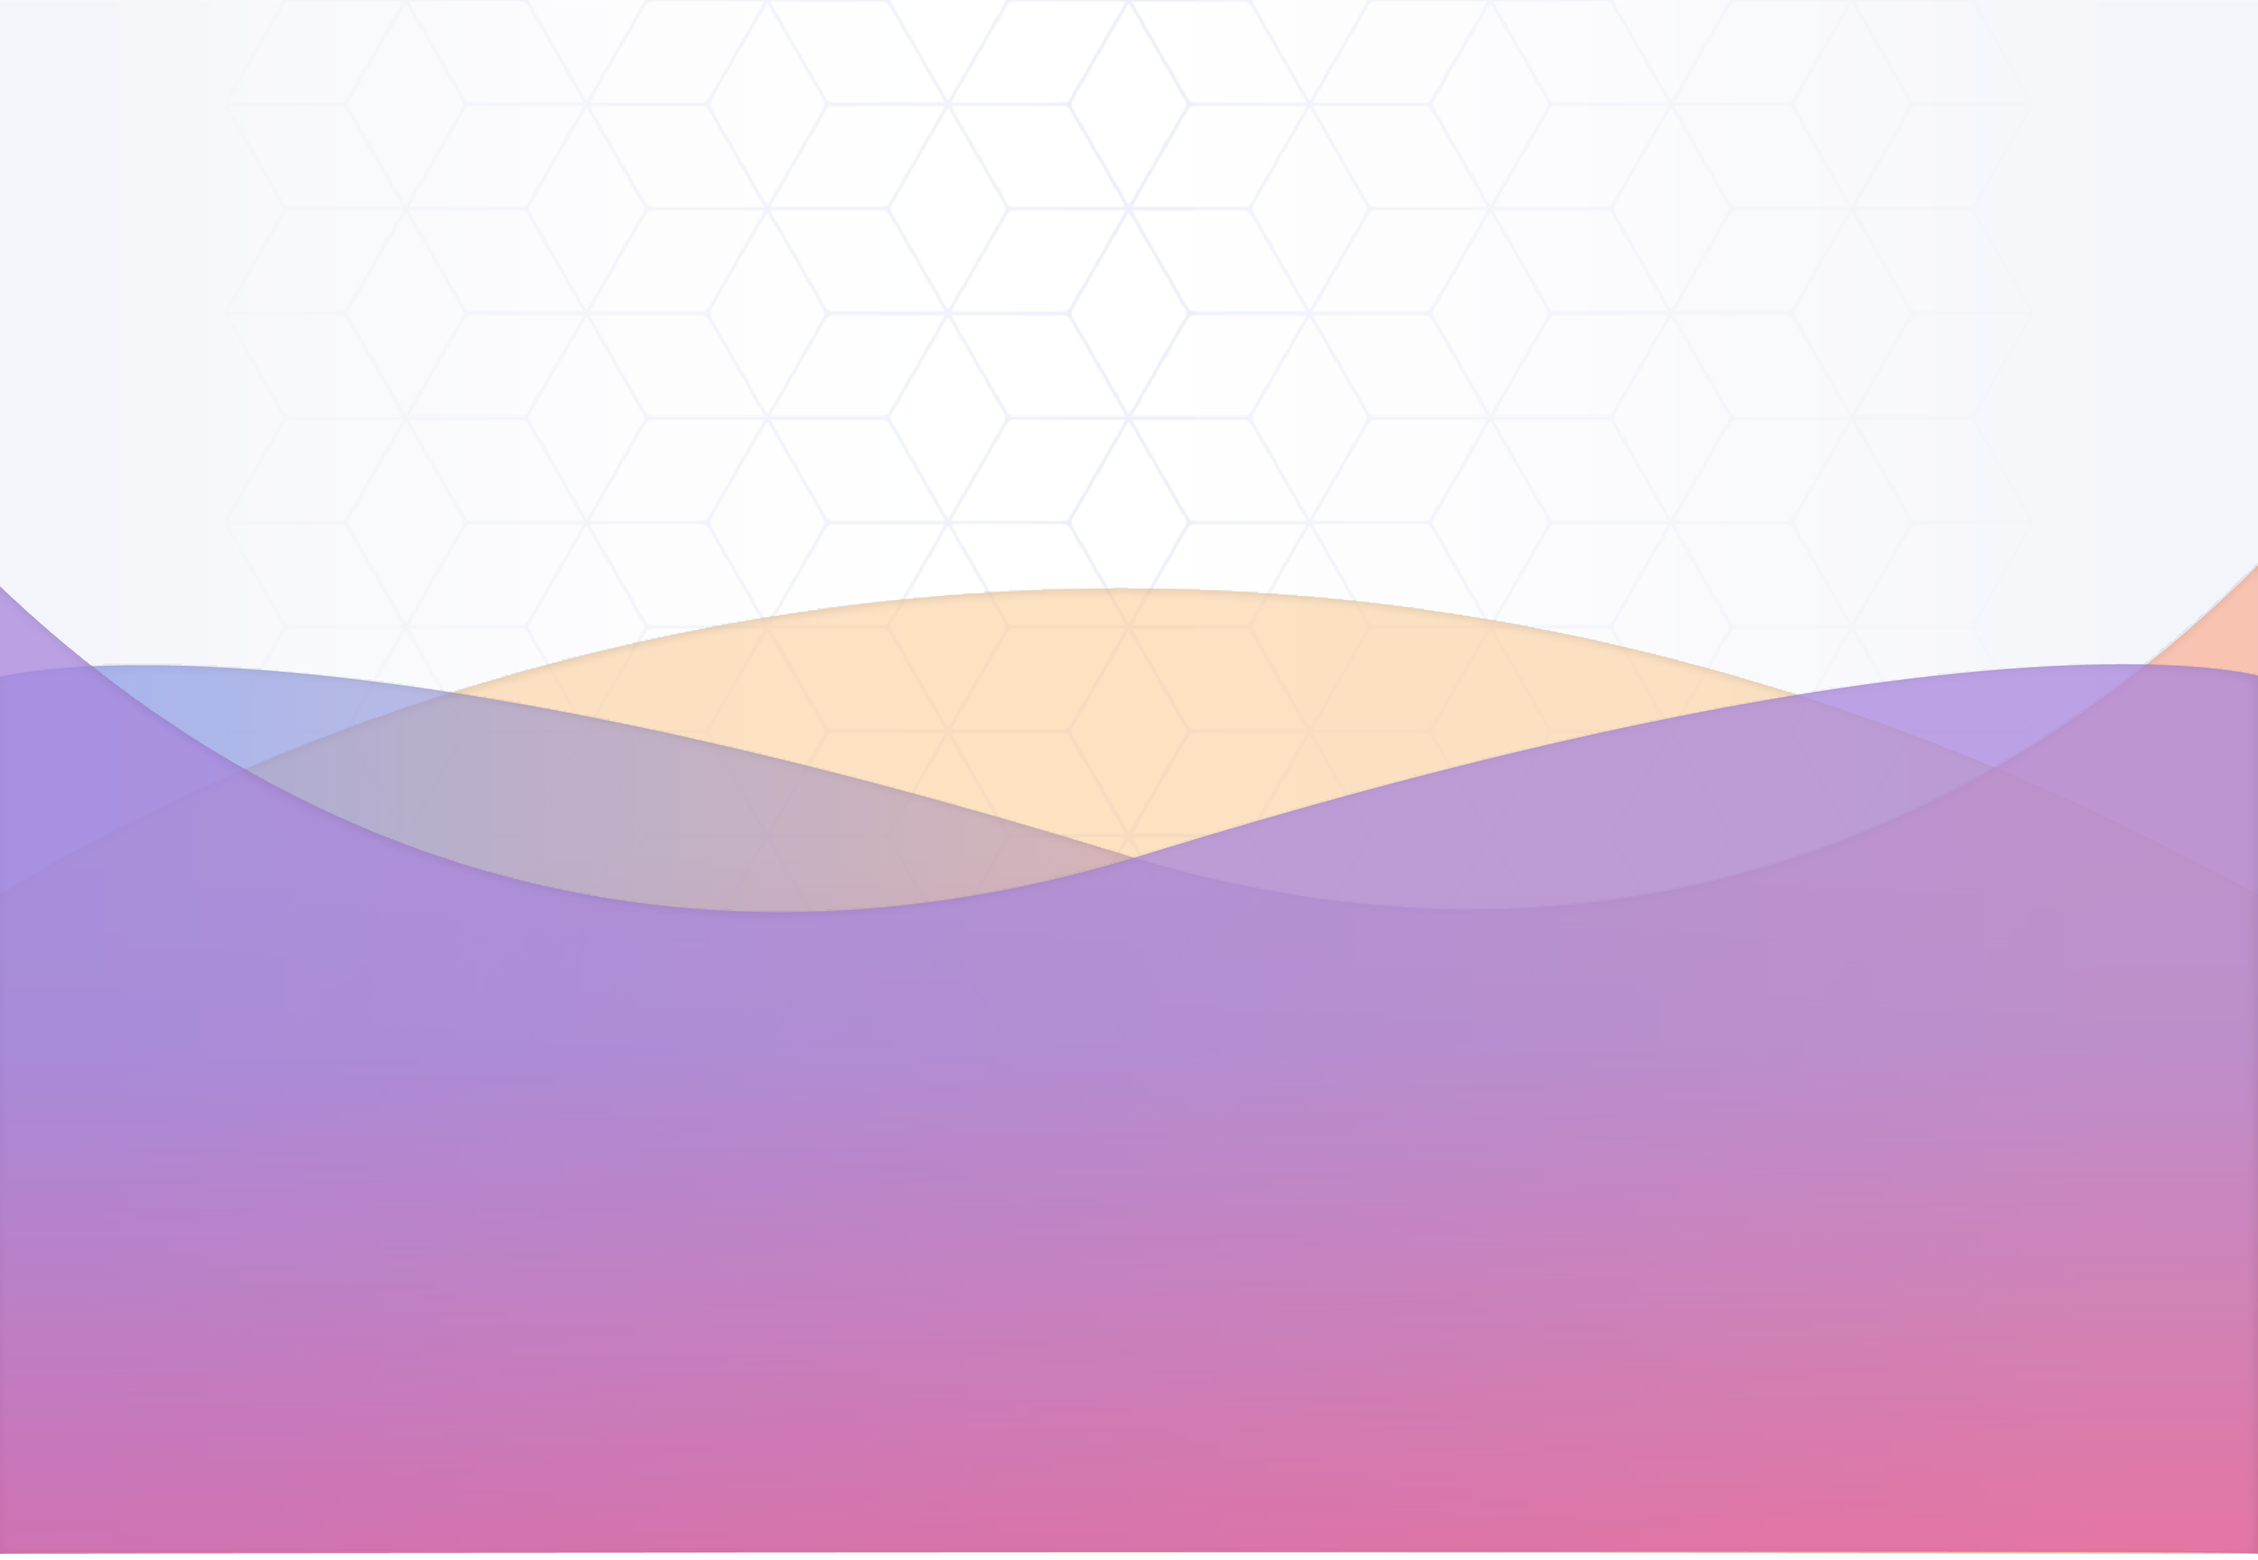
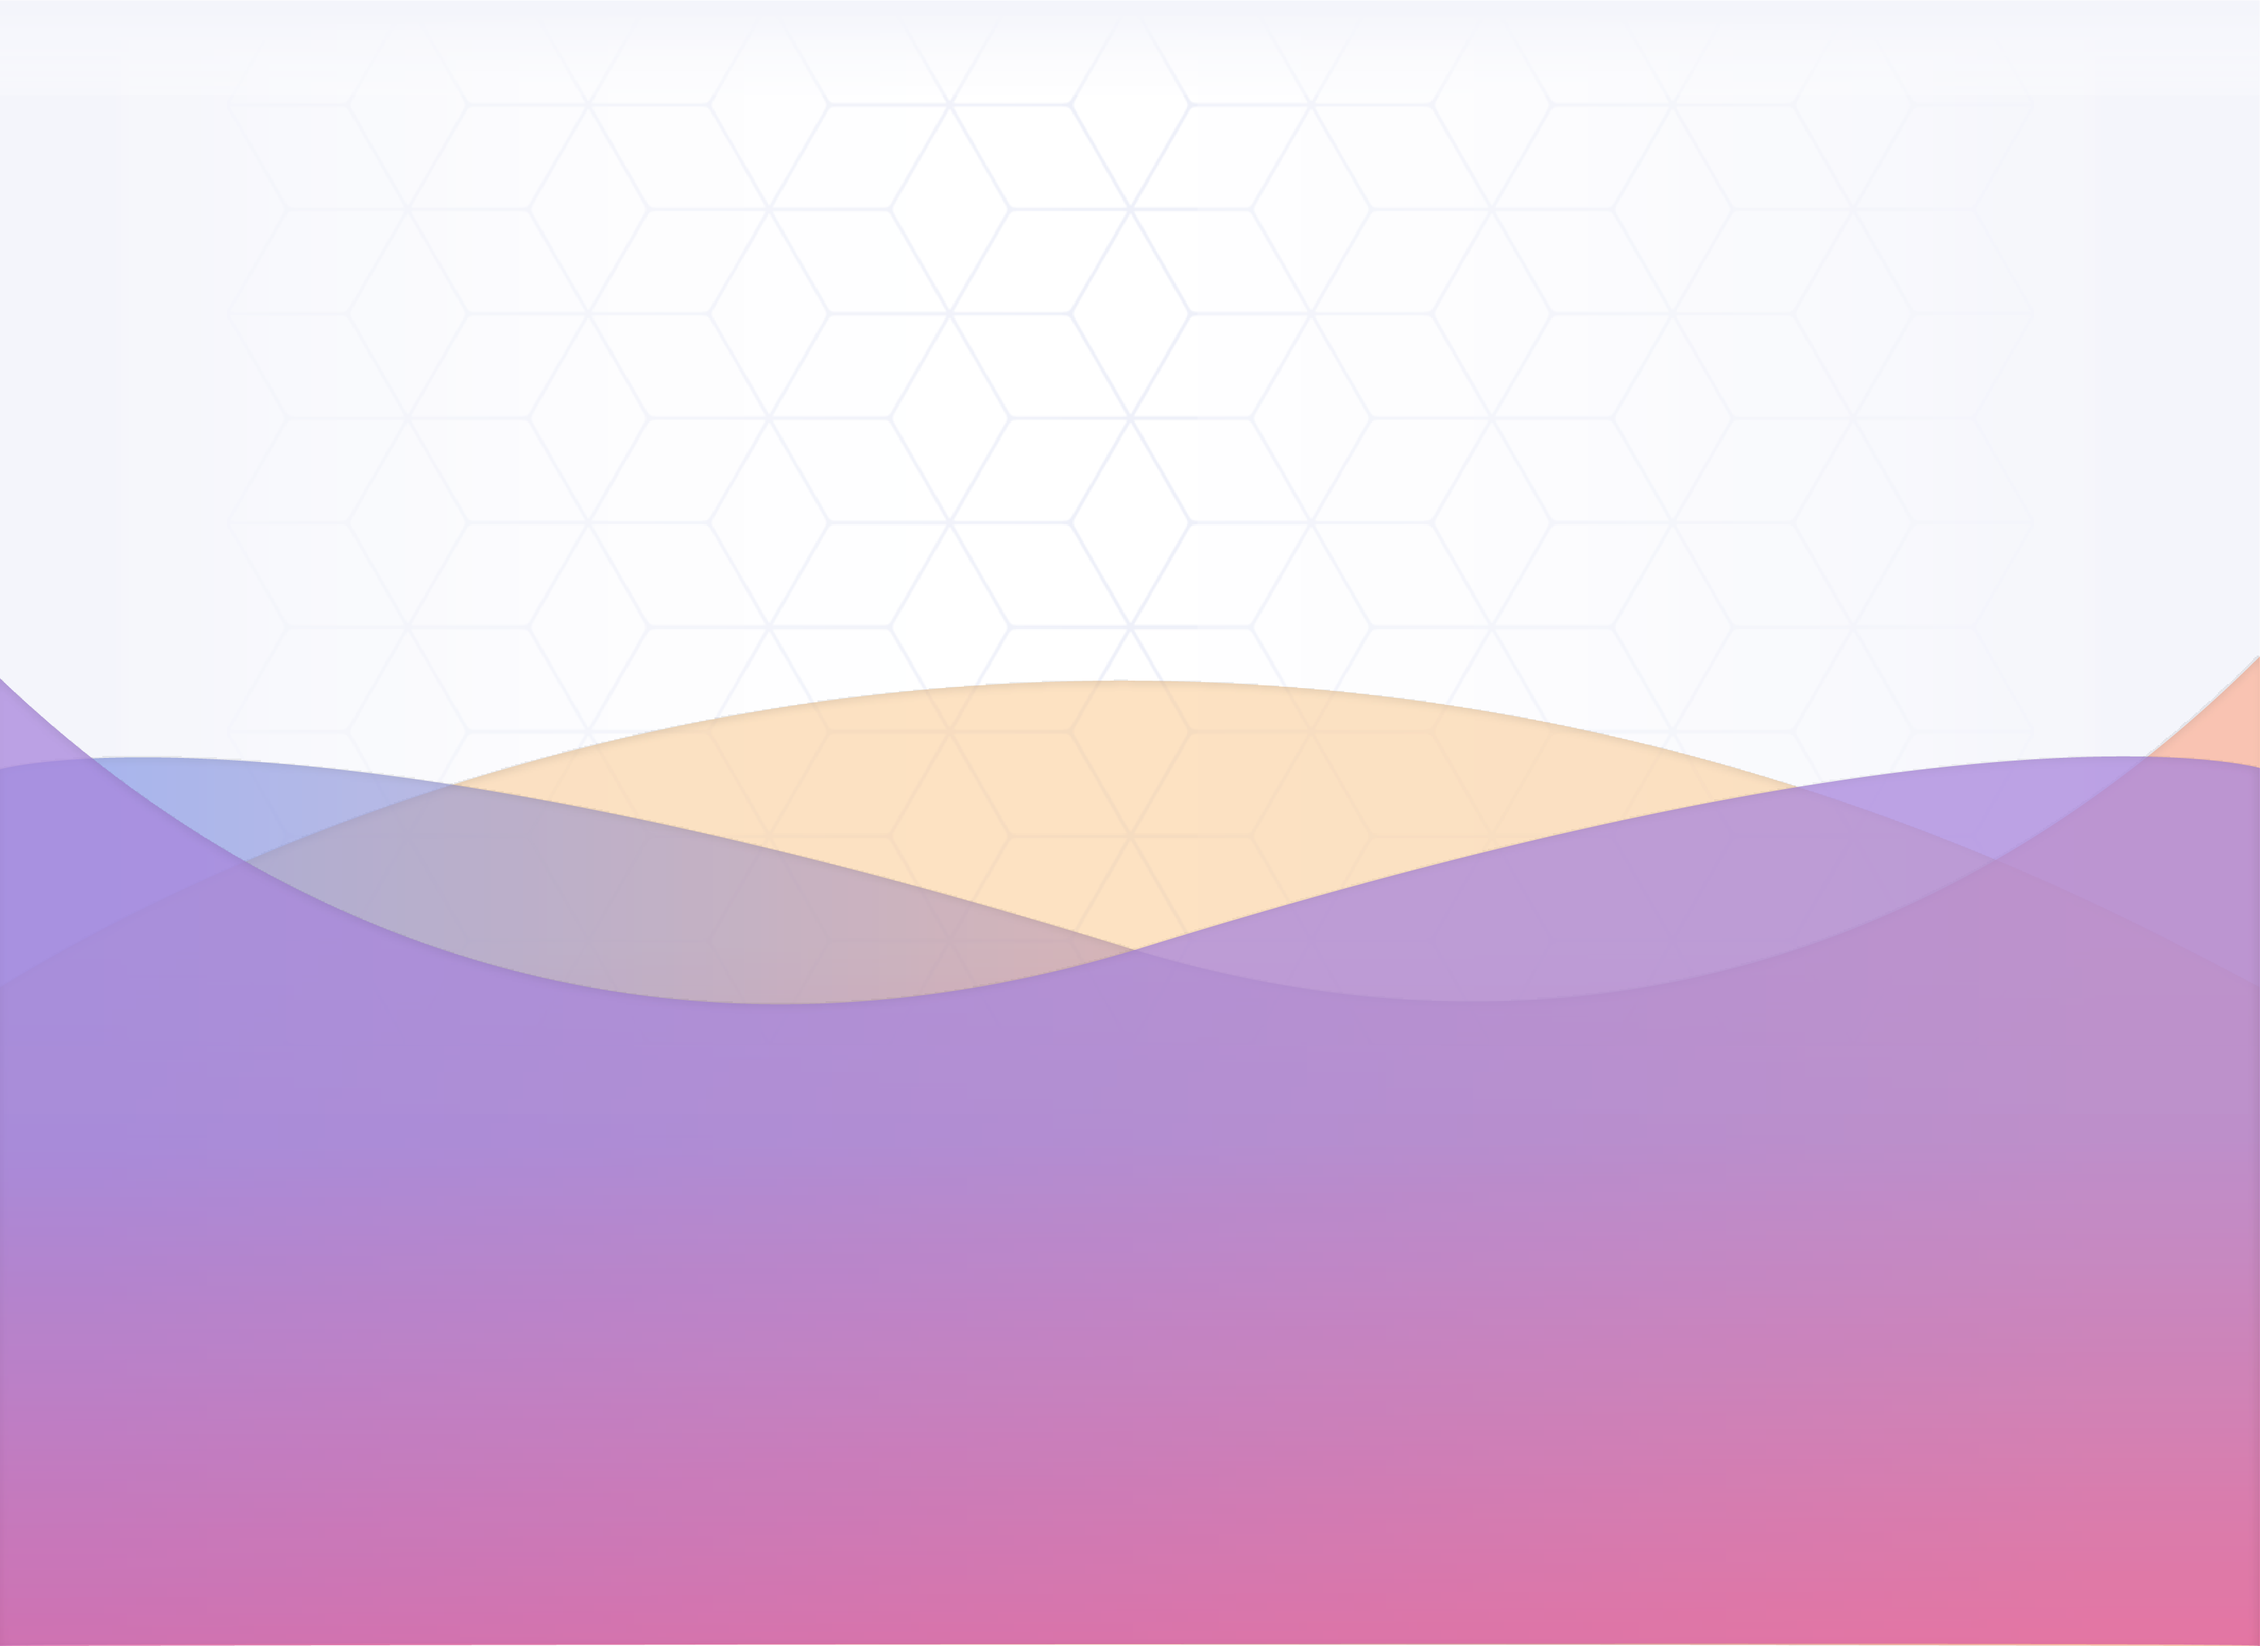
Updated background image

Changed region(s): [[0.0, 0.3394, 1.0, 0.6171], [0.0, 0.9874, 1.0, 1.0]]

diff --git a/src/stylesheets/pages/_home.scss b/src/stylesheets/pages/_home.scss
@@ -1,7 +1,6 @@
 .home {
   width: 100%;
   height: 100%;
-  padding-top: 65px;
   &__header {
     display: block;
     margin: 0 auto;
@@ -17,7 +16,7 @@
     }
   }
   &__splash {
-    height: calc(100vh - 60px);
+    height: 100vh;
     min-height: 800px;    
     position: relative;
     background-image: url('/assets/img/bg.png');
@@ -26,10 +25,10 @@
     background-position: center;
 
     &__text {
-      padding-top: 70px;
+      padding-top: 135px;
       text-align: center;
       @media screen and (max-width: $smallScreen) {
-        padding-top: 50px;
+        padding-top: 110px;
       }
       > span {
         display: block;
